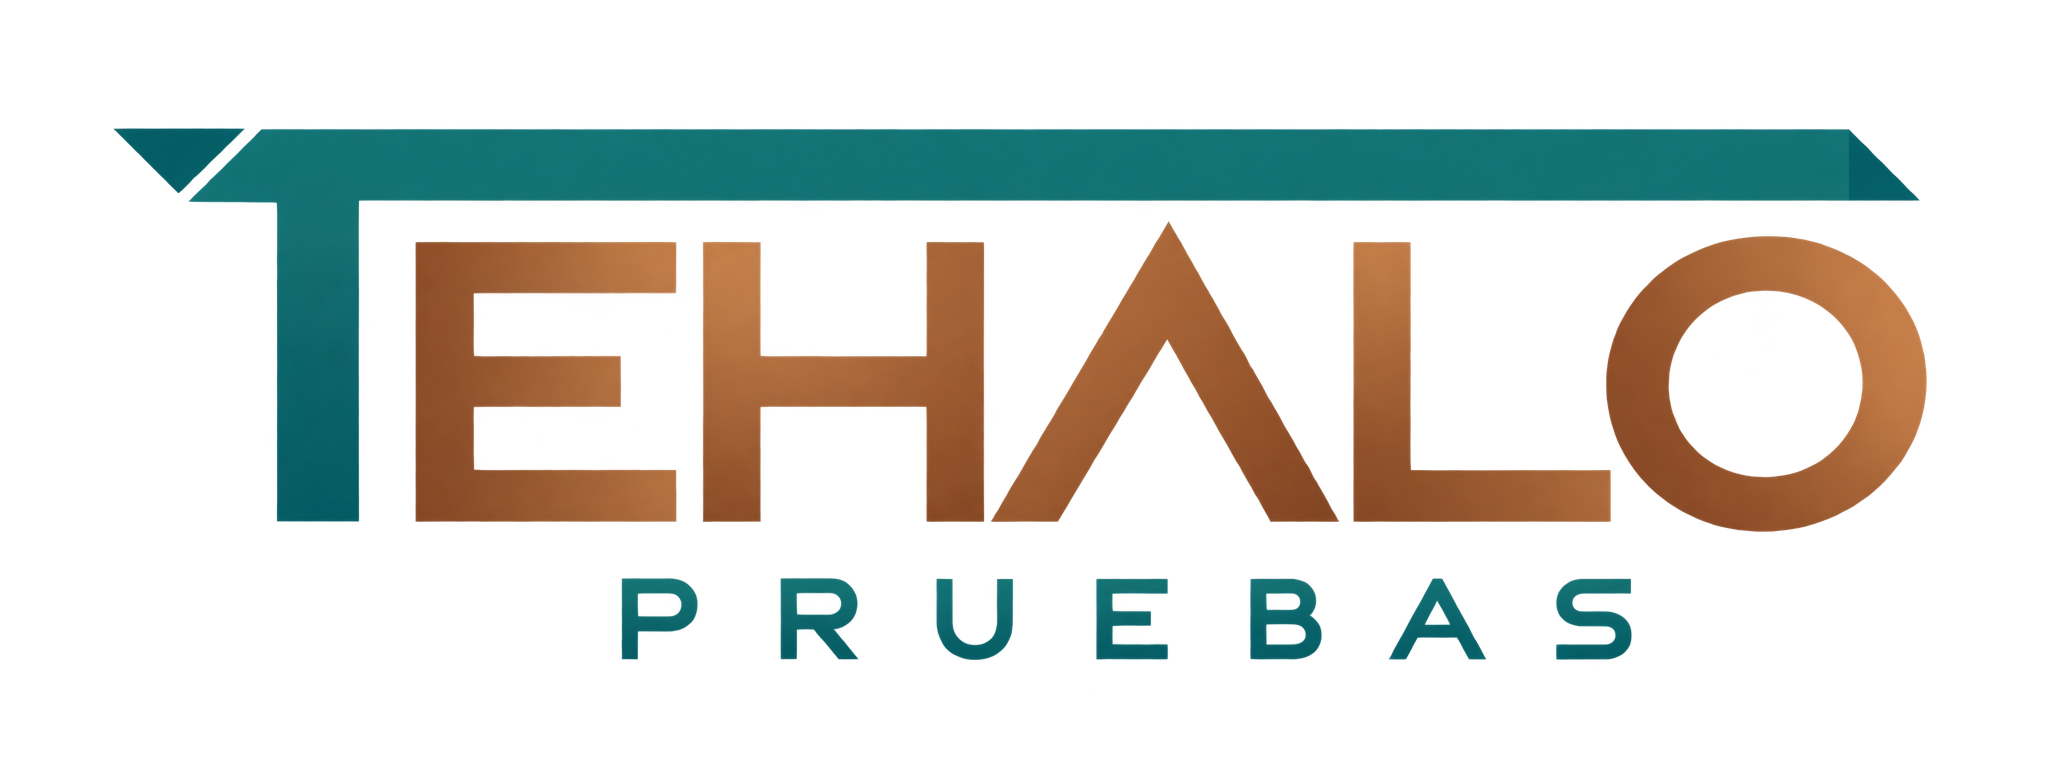
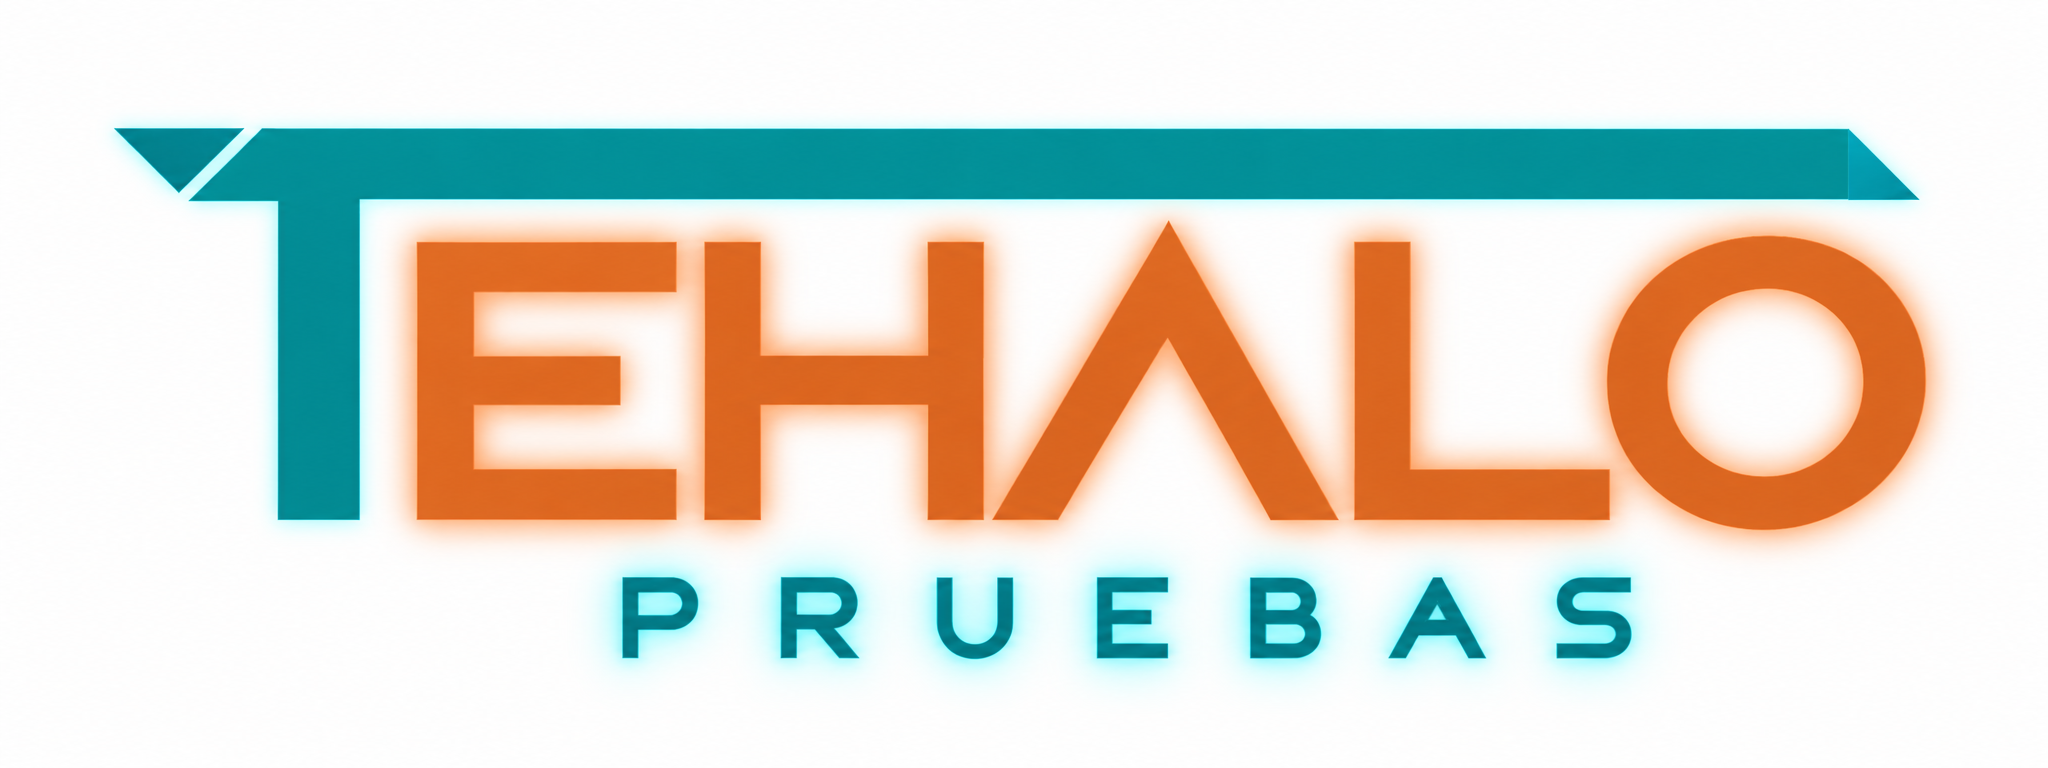
Corrige el fondo del logotipo de Tehalo

diff --git a/components/TehaloOppositionCard.module.css b/components/TehaloOppositionCard.module.css
@@ -14,7 +14,7 @@
   height: 108px;
   object-fit: contain;
   border-radius: 15px;
-  background: #020b0d;
+  background: #ffffff;
 }
 
 .lead {
@@ -39,7 +39,7 @@
   margin-bottom: 22px;
   object-fit: contain;
   border-radius: 20px;
-  background: #020b0d;
+  background: #ffffff;
 }
 
 .modalLead {
